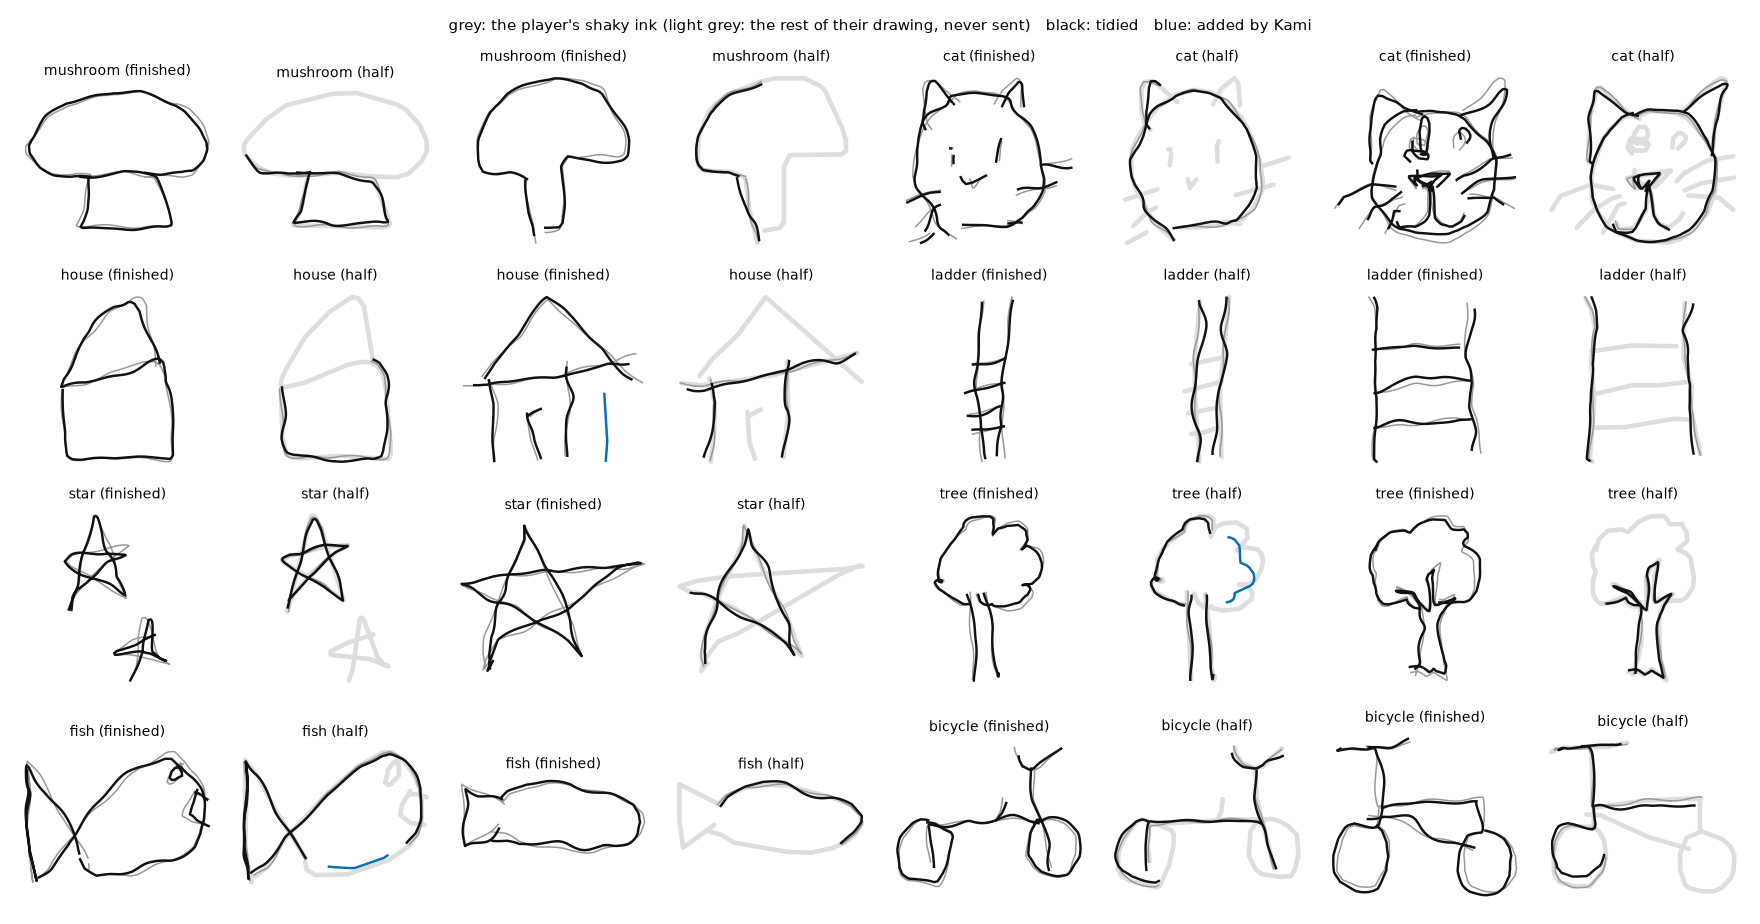
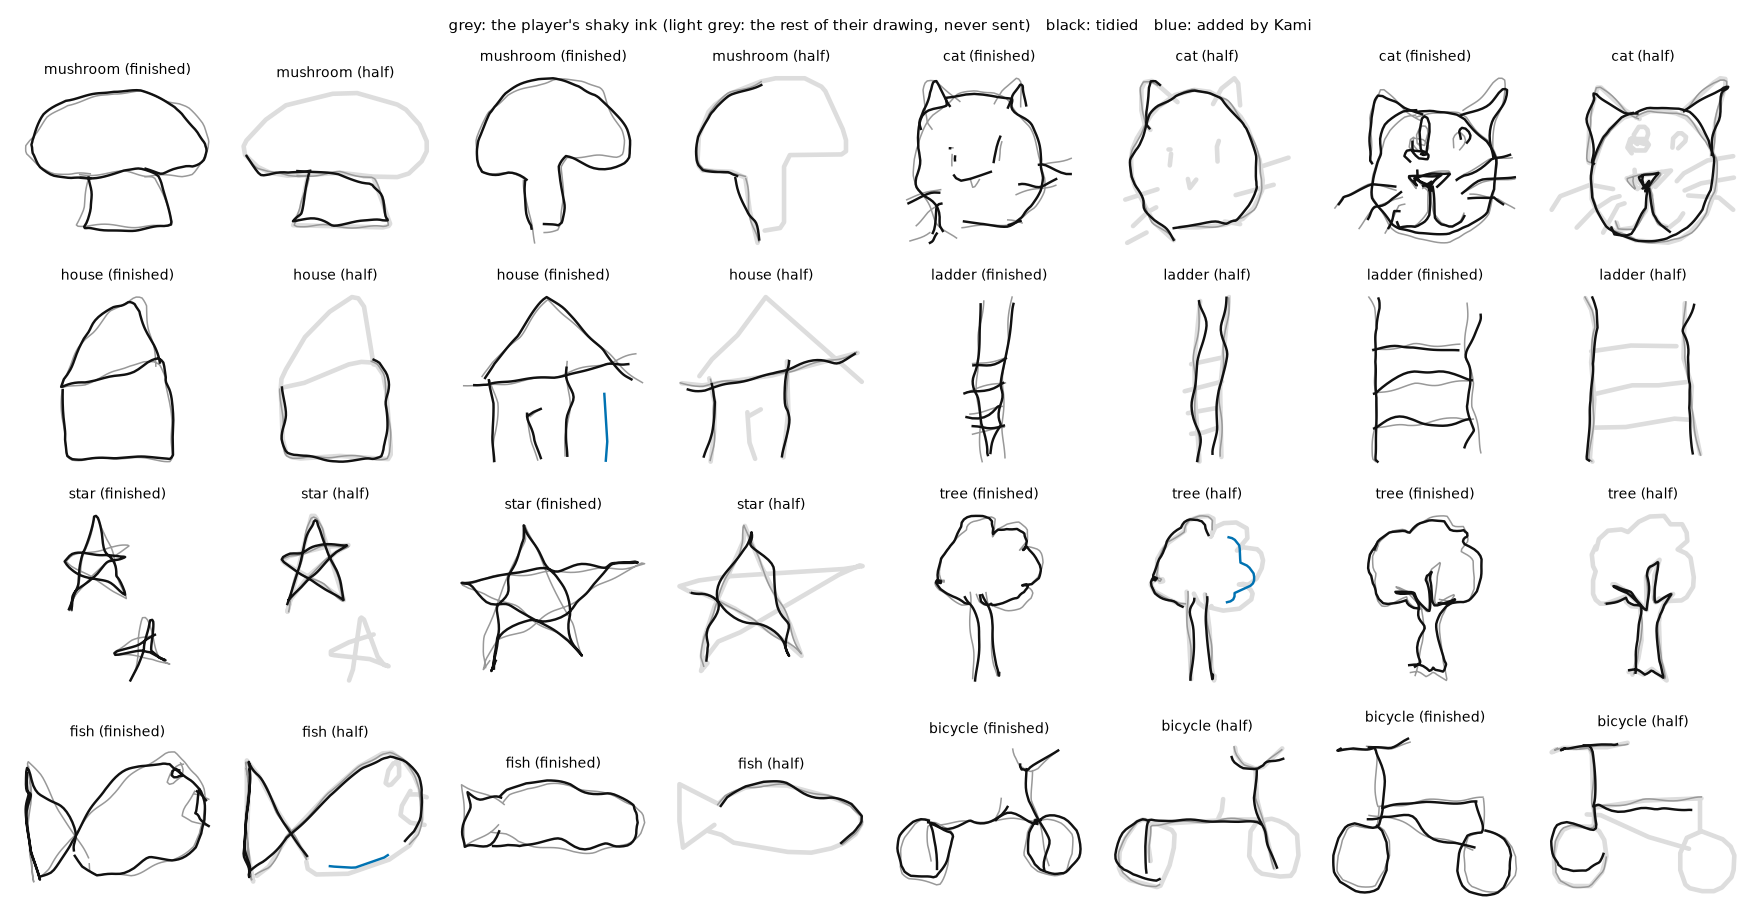
Morph adapts to certainty: as firm as Kami is sure (confidence x fit), never gentler than before; boldness reported

diff --git a/ml/morph.py b/ml/morph.py
@@ -19,9 +19,15 @@ Points = NDArray[np.float64]
 class MorphSettings:
     """Distances are shares of the player's bounding-box diagonal, so the morph is scale-free."""
 
-    strength: float = 0.5
+    gentle_strength: float = 0.5
+    bold_strength: float = 0.9
+    gentle_shift: float = 0.06
+    bold_shift: float = 0.10
+    sure_from: float = 0.3
+    sure_at: float = 0.9
+    loose_from: float = 0.03
+    loose_at: float = 0.08
     reach: float = 0.12
-    max_shift: float = 0.06
     smoothing_window: int = 9
     cover_radius: float = 0.10
     min_added_length: float = 0.15
@@ -41,6 +47,7 @@ class Morph:
     tidied: list[Points]
     added: list[Points]
     misfit: float
+    boldness: float
 
 
 DEFAULT_SETTINGS = MorphSettings()
@@ -154,14 +161,32 @@ def _smoothed(shifts: Points, window: int) -> Points:
     return np.column_stack([np.convolve(padded[:, axis], kernel, mode="valid") for axis in (0, 1)])
 
 
-def _tidy(stroke: Points, target: Points, diagonal: float, settings: MorphSettings) -> Points:
+def _smoothstep(value: float, low: float, high: float) -> float:
+    share = min(1.0, max(0.0, (value - low) / (high - low)))
+    return share * share * (3.0 - 2.0 * share)
+
+
+def boldness_of(certainty: float, misfit: float, settings: MorphSettings) -> float:
+    """0 (gentle) to 1 (bold): bold only when Kami is sure what the drawing is AND the exemplar
+    lies closely on the player's ink; doubt about either keeps his hand light."""
+    sure = _smoothstep(certainty, settings.sure_from, settings.sure_at)
+    close = 1.0 - _smoothstep(misfit, settings.loose_from, settings.loose_at)
+    return sure * close
+
+
+def _tidy(
+    stroke: Points, target: Points, diagonal: float, boldness: float, settings: MorphSettings
+) -> Points:
+    strength = settings.gentle_strength + boldness * (
+        settings.bold_strength - settings.gentle_strength
+    )
+    max_shift = settings.gentle_shift + boldness * (settings.bold_shift - settings.gentle_shift)
     nearest, distance = _nearest(stroke, target)
     shifts = target[nearest] - stroke
     shifts[distance > settings.reach * diagonal] = 0.0
-    shifts = _smoothed(shifts, settings.smoothing_window) * settings.strength
+    shifts = _smoothed(shifts, settings.smoothing_window) * strength
     lengths = np.linalg.norm(shifts, axis=1, keepdims=True)
-    limit = settings.max_shift * diagonal
-    shifts *= np.minimum(1.0, limit / np.maximum(lengths, 1e-12))
+    shifts *= np.minimum(1.0, max_shift * diagonal / np.maximum(lengths, 1e-12))
     return stroke + shifts
 
 
@@ -219,7 +244,10 @@ def _worth_adding(
 
 
 def morph(
-    player: list[Points], exemplar: list[Points], settings: MorphSettings = DEFAULT_SETTINGS
+    player: list[Points],
+    exemplar: list[Points],
+    certainty: float = 1.0,
+    settings: MorphSettings = DEFAULT_SETTINGS,
 ) -> Morph | None:
     """None when either drawing has no extent to work with. `tidied` always has the player's shape:
     the same strokes in the same order, each with the same number of points."""
@@ -235,13 +263,17 @@ def morph(
     target = np.concatenate([resample(stroke, spacing) for stroke in fitted])
     player_cloud = np.concatenate([resample(stroke, spacing) for stroke in inked])
     misfit = float(_nearest(player_cloud, target)[1].mean() / diagonal)
+    boldness = boldness_of(certainty, misfit, settings)
     return Morph(
         tidied=[
-            _tidy(stroke, target, diagonal, settings) if len(stroke) > 0 else stroke.copy()
+            _tidy(stroke, target, diagonal, boldness, settings)
+            if len(stroke) > 0
+            else stroke.copy()
             for stroke in player
         ],
         added=_worth_adding(
             _missing(fitted, player_cloud, diagonal, settings), inked, misfit, settings
         ),
         misfit=misfit,
+        boldness=boldness,
     )

diff --git a/ml/tests/test_morph.py b/ml/tests/test_morph.py
@@ -4,7 +4,7 @@ import numpy as np
 import pytest
 from numpy.typing import NDArray
 
-from morph import MorphSettings, morph, resample
+from morph import MorphSettings, boldness_of, morph, resample
 
 Points = NDArray[np.float64]
 CENTRE = np.array([400.0, 300.0])
@@ -43,7 +43,7 @@ def test_a_wobbly_circle_is_tidied_but_stays_the_players() -> None:
     assert [len(stroke) for stroke in result.tidied] == [180]
     assert radial_error(result.tidied[0]) < 0.75 * radial_error(player[0])
     moved = np.linalg.norm(result.tidied[0] - player[0], axis=1)
-    assert moved.max() <= DEFAULT.max_shift * DIAGONAL * 1.05 + 1e-9
+    assert moved.max() <= DEFAULT.bold_shift * DIAGONAL * 1.05 + 1e-9
     assert result.added == []
 
 
@@ -81,15 +81,34 @@ def test_ink_the_exemplar_does_not_have_is_left_alone() -> None:
     player = [arc(0.0, 2 * np.pi, count=90, wobble=4.0), flag]
     settings = MorphSettings(fit_scales=(1.0,), fit_offsets=(0.0,))
     exemplar = [np.column_stack([u[:, 0] * (200 / 360), u[:, 1]]) for u in unit_circle()]
-    result = morph(player, exemplar, settings)
+    result = morph(player, exemplar, settings=settings)
     assert result is not None
     assert len(result.tidied) == 2 and result.tidied[1].shape == flag.shape
 
 
 def test_strength_zero_changes_nothing() -> None:
     player = [arc(0.0, 2 * np.pi, wobble=5.0)]
-    result = morph(player, unit_circle(), MorphSettings(strength=0.0))
+    still = MorphSettings(gentle_strength=0.0, bold_strength=0.0)
+    result = morph(player, unit_circle(), settings=still)
     assert result is not None and np.allclose(result.tidied[0], player[0])
+
+
+def test_the_surer_kami_is_the_more_firmly_he_tidies() -> None:
+    player = [arc(0.0, 2 * np.pi, count=180, wobble=6.0)]
+    unsure = morph(player, unit_circle(), certainty=0.2)
+    sure = morph(player, unit_circle(), certainty=0.95)
+    assert unsure is not None and sure is not None
+    assert unsure.boldness == 0.0 and sure.boldness > 0.8
+    assert radial_error(sure.tidied[0]) < 0.6 * radial_error(unsure.tidied[0])
+    gentle_reach = np.linalg.norm(unsure.tidied[0] - player[0], axis=1).max()
+    assert gentle_reach <= DEFAULT.gentle_shift * DIAGONAL * 1.05 + 1e-9
+
+
+def test_a_loose_fit_keeps_his_hand_light_however_sure_he_is() -> None:
+    assert boldness_of(0.99, DEFAULT.loose_at, DEFAULT) == 0.0
+    assert boldness_of(0.99, DEFAULT.loose_from, DEFAULT) > 0.95
+    assert boldness_of(DEFAULT.sure_from, 0.0, DEFAULT) == 0.0
+    assert 0.0 < boldness_of(0.6, 0.03, DEFAULT) < 1.0
 
 
 @pytest.mark.parametrize(

diff --git a/docs/reports/figures/src/morph_contact_sheet.py b/docs/reports/figures/src/morph_contact_sheet.py
@@ -42,7 +42,7 @@ def wobbly(strokes):
         shaken.append(dense)
     return shaken
 
-rows, stats, timings = [], [], []
+rows, stats, timings, bolds = [], [], [], []
 for category in CATEGORIES:
     recognised = (d for d in read_drawings(category_path(DATA, category)) if d.recognized)
     for drawing in itertools.islice(recognised, HELD_OUT_AFTER, HELD_OUT_AFTER + PER_CATEGORY):
@@ -53,6 +53,7 @@ for category in CATEGORIES:
             timings.append(1000 * (time.perf_counter() - started))
             if answer is None:
                 stats.append((kind, None)); continue
+            bolds.append((kind, answer.boldness, answer.confidence))
             diagonal = np.hypot(*(np.concatenate(ink).max(0) - np.concatenate(ink).min(0)))
             moved = max(float(np.linalg.norm(t - i, axis=1).max()) for t, i in zip(answer.tidied, ink))
             length = lambda ss: sum(float(np.hypot(*np.diff(s, axis=0).T).sum()) for s in ss if len(s) > 1)
@@ -66,6 +67,9 @@ for kind in ("finished", "half"):
     none = sum(1 for k, s in stats if k == kind and s is None)
     moved, added, pieces = map(np.array, zip(*got))
     print(f"{kind:9} n={len(got)} declined={none}  max move/diag median {np.median(moved):.3f} max {moved.max():.3f}   added length / own ink median {np.median(added):.2f} p90 {np.percentile(added, 90):.2f}   drawings with nothing added {np.mean(pieces == 0):.0%}")
+for kind in ("finished", "half"):
+    b = np.array([x[1] for x in bolds if x[0] == kind]); c = np.array([x[2] for x in bolds if x[0] == kind])
+    print(f"{kind:9} boldness median {np.median(b):.2f} p10 {np.percentile(b, 10):.2f} p90 {np.percentile(b, 90):.2f}   confidence median {np.median(c):.2f}")
 print(f"latency ms: median {np.median(timings):.1f} p95 {np.percentile(timings, 95):.1f}")
 
 figure, axes = plt.subplots(4, 8, figsize=(16, 8.4))

diff --git a/ml/completion.py b/ml/completion.py
@@ -42,6 +42,7 @@ class Completion:
     category: str
     confidence: float
     similarity: float
+    boldness: float
     exemplar_key_id: int
 
     def to_json(self) -> dict[str, object]:
@@ -51,6 +52,7 @@ class Completion:
             "category": self.category,
             "confidence": self.confidence,
             "similarity": self.similarity,
+            "boldness": self.boldness,
             "exemplar": str(self.exemplar_key_id),
         }
 
@@ -111,15 +113,19 @@ class SketchCompleter:
         if best is None:
             return None
         index, similarity = best
-        shaped = morph(_as_arrays(strokes), _as_arrays(self._exemplars.strokes(index)))
+        confidence = float(reading.probabilities[0, label])
+        shaped = morph(
+            _as_arrays(strokes), _as_arrays(self._exemplars.strokes(index)), certainty=confidence
+        )
         if shaped is None:
             return None
         return Completion(
             tidied=shaped.tidied,
             added=shaped.added,
             category=self._exemplars.categories[label],
-            confidence=float(reading.probabilities[0, label]),
+            confidence=confidence,
             similarity=similarity,
+            boldness=shaped.boldness,
             exemplar_key_id=int(self._exemplars.key_ids[index]),
         )
 

diff --git a/ml/tests/test_completion.py b/ml/tests/test_completion.py
@@ -177,14 +177,22 @@ def test_the_drawing_stays_the_players_stroke_for_stroke_and_point_for_point() -
     diagonal = float(np.hypot(200.0, 60.0))
     for tidied, drawn in zip(completion.tidied, SKETCH, strict=True):
         moved = np.linalg.norm(tidied - np.asarray(drawn), axis=1)
-        assert moved.max() <= DEFAULT_SETTINGS.max_shift * diagonal + 1e-9
+        assert moved.max() <= DEFAULT_SETTINGS.bold_shift * diagonal + 1e-9
 
 
 def test_the_answer_serialises_to_the_routes_shape() -> None:
     completion = completer(ScriptedReader([0, 0, 1, 0], axis(0))).complete(SKETCH)
     assert completion is not None
     body = completion.to_json()
-    assert set(body) == {"tidied", "added", "category", "confidence", "similarity", "exemplar"}
+    assert set(body) == {
+        "tidied",
+        "added",
+        "category",
+        "confidence",
+        "similarity",
+        "boldness",
+        "exemplar",
+    }
     assert body["exemplar"] == str(completion.exemplar_key_id)
     assert body["tidied"] == [
         [{"x": float(x), "y": float(y)} for x, y in np.round(one, 2)] for one in completion.tidied

diff --git a/ml/tests/test_sidecar_complete.py b/ml/tests/test_sidecar_complete.py
@@ -38,7 +38,15 @@ def test_a_named_sketch_comes_back_as_the_players_own_strokes_tidied_toward_an_e
         f"{completing_sidecar_url}/complete", {"strokes": sketch, "name": "A Mushroom"}
     )
     assert status == 200
-    assert set(body) == {"tidied", "added", "category", "confidence", "similarity", "exemplar"}
+    assert set(body) == {
+        "tidied",
+        "added",
+        "category",
+        "confidence",
+        "similarity",
+        "boldness",
+        "exemplar",
+    }
     assert body["category"] == "mushroom"
     assert 0.0 <= body["confidence"] < 0.1
     assert -1.0 <= body["similarity"] <= 1.0

diff --git a/ml/CONTRACT.md b/ml/CONTRACT.md
@@ -48,7 +48,7 @@ Listens on `127.0.0.1:8790` (`KAMI_EYE_PORT`), loads `KAMI_EYE_MODEL` (an artifa
 | `GET /health` | | `{ "ok": true, "classes": K, "model": "<name>", "exemplars": N }` — `N` is 0 when the model has no exemplar set |
 | `POST /recognize` | `{ "strokes": [[{"x":1,"y":2},...],...], "partial": false, "top": 5 }` | `{ "labels": [...], "probs": [...] }` — best first, temperature-scaled softmax, `top` entries (default 5) |
 | `POST /embed` | `{ "strokes": ... }` | `{ "embedding": [512 floats, L2-normalised] }` |
-| `POST /complete` | `{ "strokes": ..., "name": "a mushroom" }` (`name` optional) | `{ "tidied": [[{"x":..,"y":..},...],...], "added": [...], "category": "mushroom", "confidence": 0.93, "similarity": 0.81, "exemplar": "5152802093400064" }`, or `404 {"error"}` — see Completion |
+| `POST /complete` | `{ "strokes": ..., "name": "a mushroom" }` (`name` optional) | `{ "tidied": [[{"x":..,"y":..},...],...], "added": [...], "category": "mushroom", "confidence": 0.93, "similarity": 0.81, "boldness": 0.9, "exemplar": "5152802093400064" }`, or `404 {"error"}` — see Completion |
 
 Strokes arrive raw, in world px; the sidecar owns rendering. Bad input → `400 {"error"}`; never a crash.
 
@@ -124,14 +124,19 @@ characters; `null` and `""` mean no name.
      rounds of scale-and-shift least squares on nearest points. What counts is the player's ink lying
      on the exemplar; the exemplar lying on their ink counts a tenth as much, so a half-drawn sketch
      gets a whole exemplar of the right size around it rather than one squeezed into its bounds.
-   - *Tidy.* Every point of the player's moves toward the nearest point of the fitted exemplar:
-     by `strength` (0.5) of the way, smoothed along the stroke so lines bend rather than jitter, never
-     more than 6 % of the ink's bounding-box diagonal, and not at all when the exemplar has nothing
-     within 12 % of it (ink the exemplar does not have is left alone).
+   - *Tidy.* Every point of the player's moves toward the nearest point of the fitted exemplar,
+     smoothed along the stroke so lines bend rather than jitter, and not at all when the exemplar has
+     nothing within 12 % of the diagonal (ink the exemplar does not have is left alone). **How firmly
+     depends on how sure Kami is**: `boldness` = smoothstep(confidence, 0.3 → 0.9) ×
+     (1 − smoothstep(misfit, 3 % → 8 % of the diagonal)), where confidence is the model's calibrated
+     probability of the category and misfit the mean distance from the player's ink to the fitted
+     exemplar. At boldness 0 a point moves half of the way and never more than 6 % of the diagonal;
+     at boldness 1, nine tenths of the way and never more than 10 %. A name the model does not
+     believe, or an exemplar that lies loosely, keeps his hand light.
    - *Add.* Runs of the fitted exemplar farther than 8 % of the diagonal from any of the player's ink,
      and at least 10 % of it long, become new strokes. A finished drawing usually gets none.
 
-`200 { "tidied", "added", "category", "confidence", "similarity", "exemplar" }`. **`tidied` has exactly
+`200 { "tidied", "added", "category", "confidence", "similarity", "boldness", "exemplar" }`. **`tidied` has exactly
 the request's shape** — the same strokes in the same order, each with the same number of points — so a
 client can tween point for point from the ink to it. `added` is the missing parts, to be drawn in; they
 may lie outside the ink's bounds. Both are in the request's world space, rounded to 0.01 px.

diff --git a/docs/reports/kami-eye-results.md b/docs/reports/kami-eye-results.md
@@ -58,10 +58,12 @@ easiest. The hard ones are mostly pairs people draw alike.
 
 **Figure 5 — Kami tidies a drawing without taking it over** (`fig5_morph_contact_sheet`). Real held-out
 Quick, Draw! sketches, shaken to imitate an unsteady hand, finished and cut to their first half. Grey: the
-ink sent; black: the same strokes after the morph (every point moves at most 6 % of the drawing's
-diagonal; median largest move 4–5 %); blue: parts added, only when the exemplar fits tightly. Over 96
-finished and 96 half-drawn sketches of eight categories: something was added to 4 % of finished and 21 %
-of half-drawn ones; 39 ms median, 84 ms p95 per drawing on the box's CPU.
+ink sent; black: the same strokes after the morph; blue: parts added, only when the exemplar fits tightly.
+The morph is as firm as Kami is sure: on finished drawings (median confidence 0.85) the median boldness is
+0.81 and the largest move of any point is 6.7 % of the drawing's diagonal (never over 10 %); on half-drawn
+ones (median confidence 0.40) the median boldness is 0.02 and the largest move 4.8 %. Something was added
+to 4 % of finished and 21 % of half-drawn sketches. 46 ms median, 104 ms p95 per drawing on the box's CPU,
+measured while a training run had the GPU and several cores.
 
 ![Figure 5](figures/fig5_morph_contact_sheet.png)
 
